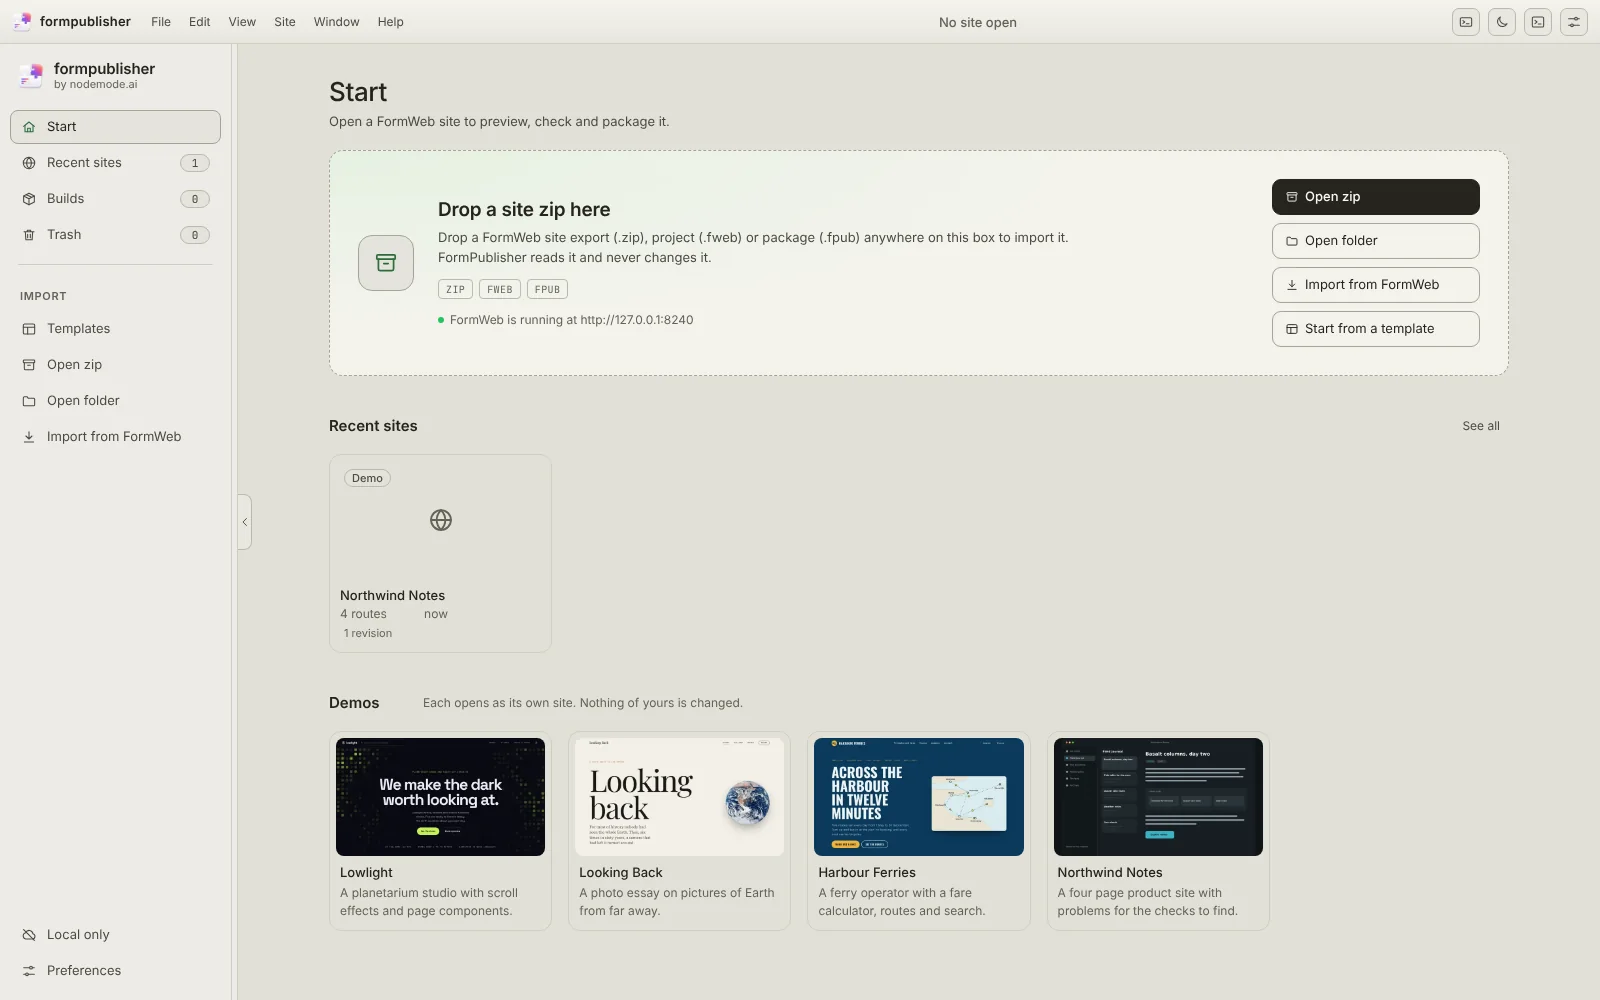
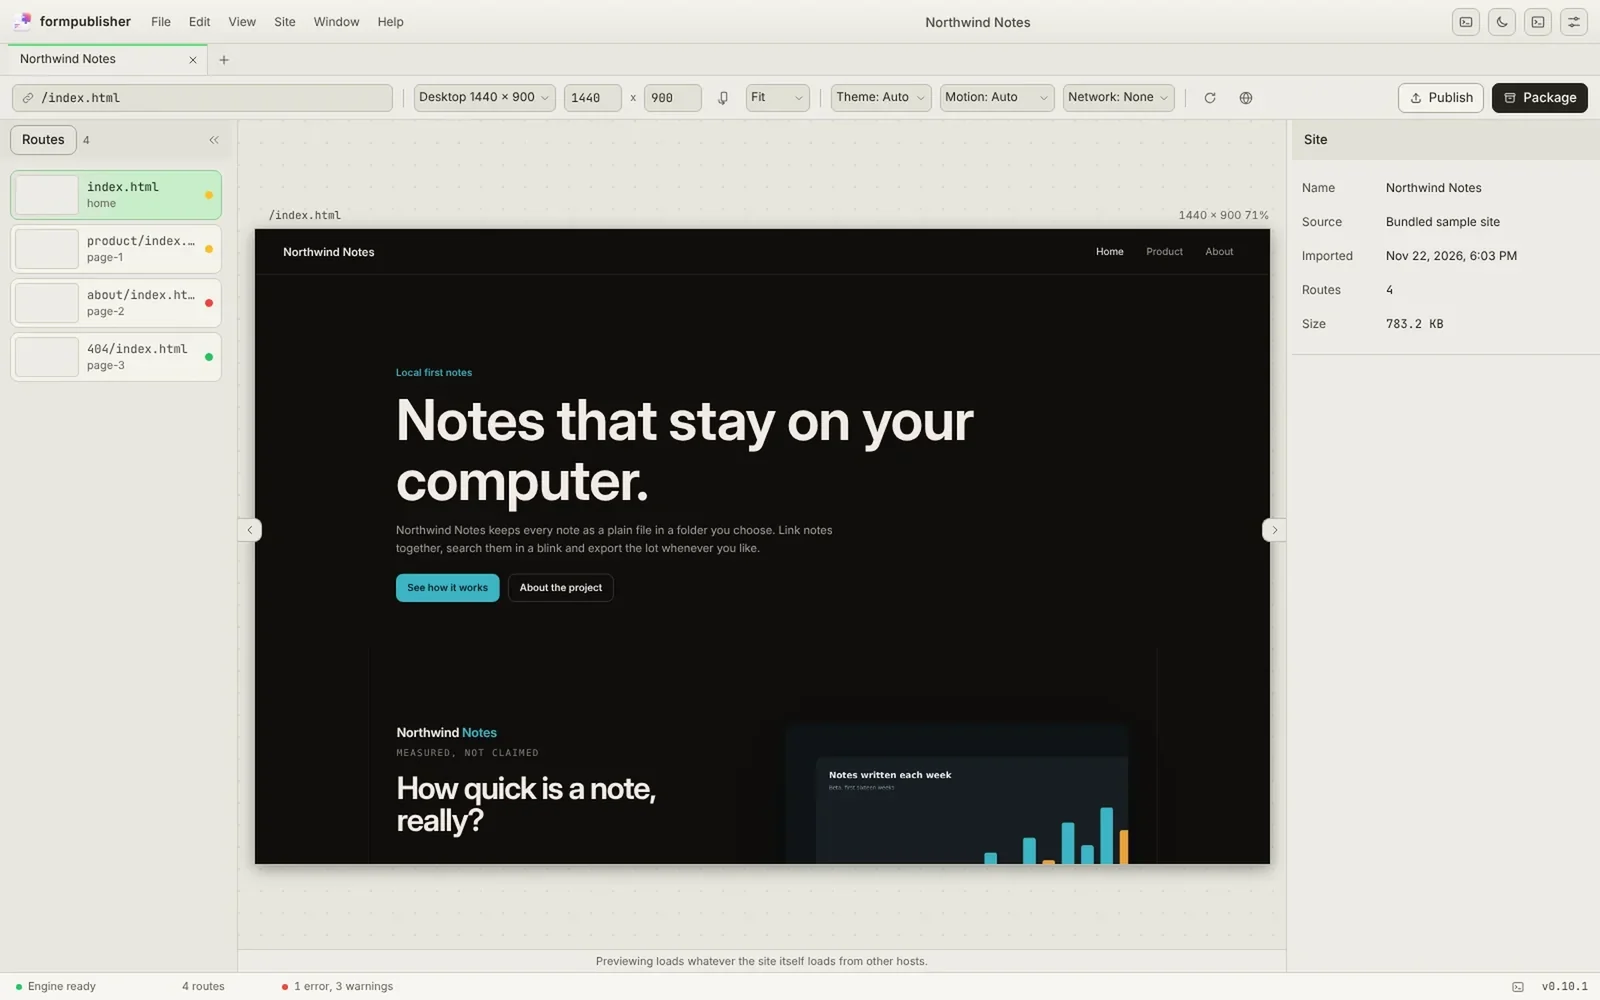
fix(apppages): FormPublisher's page shows its preview stage, no longer the app's Home

diff --git a/frontend/HASHOUT_LOG.md b/frontend/HASHOUT_LOG.md
@@ -6,6 +6,13 @@ Current build version: v0.71.4
 Last updated: 2026-11-23 · v0.71.4 releases the entries headed "after v0.71.3" (headings left as written): the Apps sections back (#apps-sections), the row columns (#row-columns), the side window behind every `···` as the install window, also for Extensions and Fonts (#app-window, #app-window-2), the status column (#row-status), local dates and Opens only when known (#local-dates); 2026-11-22 · v0.71.3 releases the entry headed "after v0.71.2" (heading left as written): keys live in Preferences, Keys (#keys-panel); 2026-11-22 · v0.71.2 releases the entry headed "after v0.71.1" (heading left as written): Stock & templates shows its page in one piece (#stock-whole); 2026-11-22 · v0.71.1 releases the entry headed "after v0.71.0" (heading left as written): On the way asks formai.studio once at start, only when the switch is on (#ask-site), plus Connect to GitHub in the browser fixture (#github-shown) and FormSubstrate under Code Editor Apps (../design/HASHOUT_LOG.md#substrate); 2026-11-21 · v0.71.0 the owner's test of 0.70.2: rows with a version pill (#row-pill), What changed in place (#row-notes), A tool for every canvas (#canvas), the held beta tutorial (#beta-held), the "..." menu (#more-menu-71), the Files inspector (#file-inspector), notices (#notice-layout, #update-notices), On the way (#on-the-way-71), Profile and Connect to GitHub (#profile, #connect-github), the steps card (#steps-card), the page gutter (#page-gutter), the sidebar (#apps-wheel, #socials, #side-tips, #side-title), app pages (#app-pages-71), web fonts (#web-fonts), keys (#provider-keys), stock (#stock-page), templates (#templates-section), the integration fixes (#integration-71, #discord-order), the Spanish (#es-71), the pill order, row width and still row while busy (#pill-order, #row-width, #row-busy, #fixture-formvis-history), web fonts only on Browse (#web-fonts-ask), the inspector's text, hash and Download (#inspector-late), On the way tiles, faces, titles and one request at start (#waves-natural, #on-the-way-faces, #upcoming-once); 2026-11-20 · v0.70.2 no interface source changed (the version only); 2026-11-20 · v0.70.1 releases the entry headed "after v0.70.0" (heading left as written): a package from outside the window waits for Install (#package-ask); 2026-11-20 · v0.70.0 no interface source changed (the version only); 2026-11-20 · v0.69.0 releases the entries headed "after v0.68.0" (headings left as written): the fallback font order (#fallback-font-order) and the last sentences that named fewer agent programs (#four-everywhere); 2026-11-19 · v0.68.0 releases the entry headed "after v0.67.0" (heading left as written): an app's AI tools tab and the agent sentences name Antigravity (#antigravity); 2026-11-19 · v0.67.0 releases the entry headed "after v0.66.0" (heading left as written): Preferences, Apps has "FormPortal in your agent": Connect and Disconnect for Claude Code, Codex and Cursor, rows built from the core's table (#own-mcp); 2026-11-19 · v0.66.0 the release of every entry below headed "after v0.65.0" (the headings were left as written), plus: every app row has a second line (#row-line), and the README's "Latest release" opens this repository's newest release
 Last updated: 2026-11-19 · after v0.65.0 a newer FormPortal has one working action in Notifications, About and Updates; the agent sentence names three agents (#self-action); 2026-11-09 · v0.64.0 the three demos open inside FormPortal from Home and Preferences > Help, sandboxed in a labelled stage (#in-app-demos); 2026-11-10 · v0.63.7 Storage lists two project folders with the same last name (#storage-rows); 2026-11-10 · v0.63.7 a failed extension on/off puts the switch back (#ext-switch-back); 2026-11-10 · v0.63.7 Learn keeps tutorials of apps not out yet hidden under every filter (#learn-unlisted); 2026-11-10 · v0.63.7 Install every released app and Update all run once at a time and skip apps already installing (#install-all-once); 2026-11-10 · v0.63.7 versionNewer orders pre-release tags as the core does (#prerelease-order); 2026-11-10 · v0.63.7 Remove and the On switch send the extension's contract id (#ext-contract-id); 2026-11-10 · v0.63.6 FormRec is in catalog/products.json as in development (formcompiler 0.13.0 registers it); 2026-11-09 · v0.63.5 the build offered follows the machine's architecture; the Download fact says when it runs under Rosetta; 2026-11-08 · v0.63.2 form.ext is available in catalog/products.json (formcompiler builds it from v0.12.0) and its licence is GPL-3.0-only, as its repository says; 2026-11-07 · v0.63.1 extensions from form.ext-registry: Verified mark, source link, blocked rows and the turned-off notice, the registry note, the browser fixture reads a test index (`?extindex=`) and no longer carries the first-party packages; 2026-11-07 · v0.63.0 the Extensions page as the hub: a filter per app, panels and commands, ready in the app notices, deep links, Make an extension, the twelve real packages in the fixture; 2026-11-07 · v0.62.4 two more demos in demos/ (no change here, see demos/updates/HASHOUT_LOG.md); 2026-11-07 · v0.62.3 the splash animation shorthand fixed; 2026-11-07 · v0.62.2 the splash bar runs 2.6 s; 2026-11-07 · v0.62.1 the demo carries real media (no change here, see demo/HASHOUT_LOG.md); 2026-11-07 · v0.62.0 the browser demo in demo/ reuses this interface through its own bridge (no change here, see demo/HASHOUT_LOG.md); 2026-11-06 · v0.61.0 the owner's icon pack named by app (ICON_FILE, iconFile), true app names, formcompiler removed as an app (icons deleted); 2026-11-06 · v0.60.0 the kept catalogue paints first, the start runs in parallel, the starter library (fonts in their own faces, stock thumbnails from the app), the store note, Extensions reloads on open; 2026-11-06 · v0.59.0 the family redesign (shell, icon rail, Home, Apps, app pages with hero shots, file drop), the site's 34 apps and names; 2026-11-06 · v0.58.0 Date to come and supporter names, nothing paints before the reveal, no app before its release; 2026-11-06 · v0.57.0 every icon in the dark and light v3 sets, following the theme (tiles, Files, the brand, the splash, the app icon); 2026-11-06 · only released apps shown (live), On the way, What it does from formai_dev's app caps, the reveal waits for the catalogue; 2026-11-06 · the family look (formvis v1.99.7 tokens, dark by default, shared accent, no scrollbars, the macOS title row) and Preferences rebuilt in formvis's structure; 2026-11-06 · the scroll fix measured in WebKit, Included on a reopen, prelaunch apps with a release, formai.studio in the wording; 2026-11-03 · the stage scrolls again; 2026-11-02 · repository links in nodemode-dev; 2026-10-25 · Included, Support the maker, the portfolio line; Agent skills on app pages, formMCP in the Agents sections; every app tile is the app's own icon; the catalogue follows formcompiler's registry; Share, Public link and Shared with you in Files; Preferences, Account (the GitHub sign-in); the font is decided before the first frame; open at login; release dates in Other versions
 
+## after v0.71.4 · FormPublisher's picture is its preview stage {#formpublisher-hero}
+- refers-to: public/heroes/formpublisher.webp, formpublisher-light.webp · ../catalog/apps/formpublisher.json :: `captures` · ../LICENSES.md :: the FormPublisher page row
+- kind: fix
+- logged: after v0.71.4 · 2026-11-23
+
+The owner: "you used the homepage for the formpublisher app which i literally ASKED YOU NOT TO USE". The hero on FormPublisher's page was its Home screen. It is now the preview stage (the sample site with the routes strip and the inspector), 1600 by 1000, dark and light, from the website's new pictures. The catalogue file no longer lists the Home capture, so the preview capture is the first, with its own alt text. The page reads nothing else from `captures`; the demos show app pages with the icon on a plate and use no hero, and no fixture points at either picture.
+
 ## after v0.71.3 · the side window is the install window, for every `···` {#app-window-2}
 - refers-to: index.html :: `[data-app-window]` (the pill with its reserved words, `[data-appwin-backs]`, `.appwin-set`, the panel cards), the Extensions and Fonts row templates (`data-more-panel`, `.more-hold`) · src/extensions/progress/index.ts :: `idle`, `paintBacks`, `lock`, `openPanel`, `fillPanel`, `copy`, `pair` · src/styles/progress.css :: `.appwin-job`, `.bcard*`, `.appwin-card`, `.pill-stack` · src/engine/types.ts :: `InstallRecord.installed_at` · src/bridge/tauri.ts :: `record` · src/bridge/fixture.ts :: `installed_at`, the platform's own SHA-256 · src/i18n/es.json
 - kind: change, replaces the layout of #app-window

diff --git a/LICENSES.md b/LICENSES.md
@@ -31,7 +31,7 @@ FormPortal is GPL-3.0-only (LICENSE, NOTICE), as FormPromo, FormMCP and FormSkil
 | The FormPublisher icon, dark and light, from the owner's FormPublisher app tile artwork (`formpublisher_icon_dark.png`, `formpublisher_icon_light.png`, 1024 px) scaled to 256 px (the owner's own artwork) | 0.71.0 | GPL-3.0-only in FormPublisher (nodemode-dev/formpublisher), as here | frontend/public/apps/formpublisher.webp, formpublisher-light.webp |
 | The form.ext screenshot on its app page: the main capture of nodemode-dev/form.ext's README (`assets/formext-preview.webp`, the Studio previewing its own starter extension), scaled to 1600 by 1000 WebP, used for the dark and the light look (the owner's own app) | 0.71.0 | GPL-3.0-only in form.ext, the same licence as here | frontend/public/heroes/formext.webp, formext-light.webp |
 | The FormFabric screenshot on its app page: the main capture of nodemode-dev/formfabric's README (`docs/images/formfabric-pattern-and-drape.png`, its own pattern and print), cropped to 16:10 from the centre and scaled to 1600 by 1000 WebP, used for the dark and the light look (the owner's own app) | 0.71.0 | Apache-2.0 in FormFabric, compatible with GPL-3.0-only here | frontend/public/heroes/formfabric.webp, formfabric-light.webp |
-| The FormPublisher page and screenshot: the website's page-content file for FormPublisher (`catalog/apps/formpublisher.json`, an unedited copy) and its hero capture of FormPublisher's Start screen, 1600 by 1000 WebP, dark and light (the owner's own app) | 0.71.4 | GPL-3.0-only in FormPublisher, the same licence as here | catalog/apps/formpublisher.json, frontend/public/heroes/formpublisher.webp, formpublisher-light.webp |
+| The FormPublisher page and screenshot: the website's page-content file for FormPublisher (`catalog/apps/formpublisher.json`, a copy without the Home capture since 0.71.5) and its hero capture of FormPublisher's preview stage with the routes strip and the inspector, 1600 by 1000 WebP, dark and light (the owner's own app) | 0.71.4, hero 0.71.5 | GPL-3.0-only in FormPublisher, the same licence as here | catalog/apps/formpublisher.json, frontend/public/heroes/formpublisher.webp, formpublisher-light.webp |
 | The page text of form.ext and FormSkills (`catalog/apps/formext.json`, `formskills.json`), copies of the website's page-content files for those apps, with form.ext's registry sections written from nodemode-dev/form.ext-registry's README, SUBMITTING.md and POLICY.md | 0.71.0 | the owner's, as the rest of `catalog/` | catalog/apps |
 | Vite, TypeScript, @types/node | as in frontend/package-lock.json | MIT, Apache-2.0, MIT | frontend, build time only |
 | Inter variable font | 4 | SIL OFL 1.1 | frontend/public/fonts, shipped with LICENSE-Inter.txt |

diff --git a/CHANGELOG.md b/CHANGELOG.md
@@ -2,6 +2,12 @@
 
 FormPortal's own release notes. Each Form app publishes its own; FormPortal shows them under Details.
 
+## v0.71.5 · 2026-11-23
+
+### Fixed
+
+- FormPublisher's page shows FormPublisher's preview stage, with a sample site, its routes and the inspector, instead of the app's Home screen.
+
 ## v0.71.4 · 2026-11-23
 
 ### Fixed
